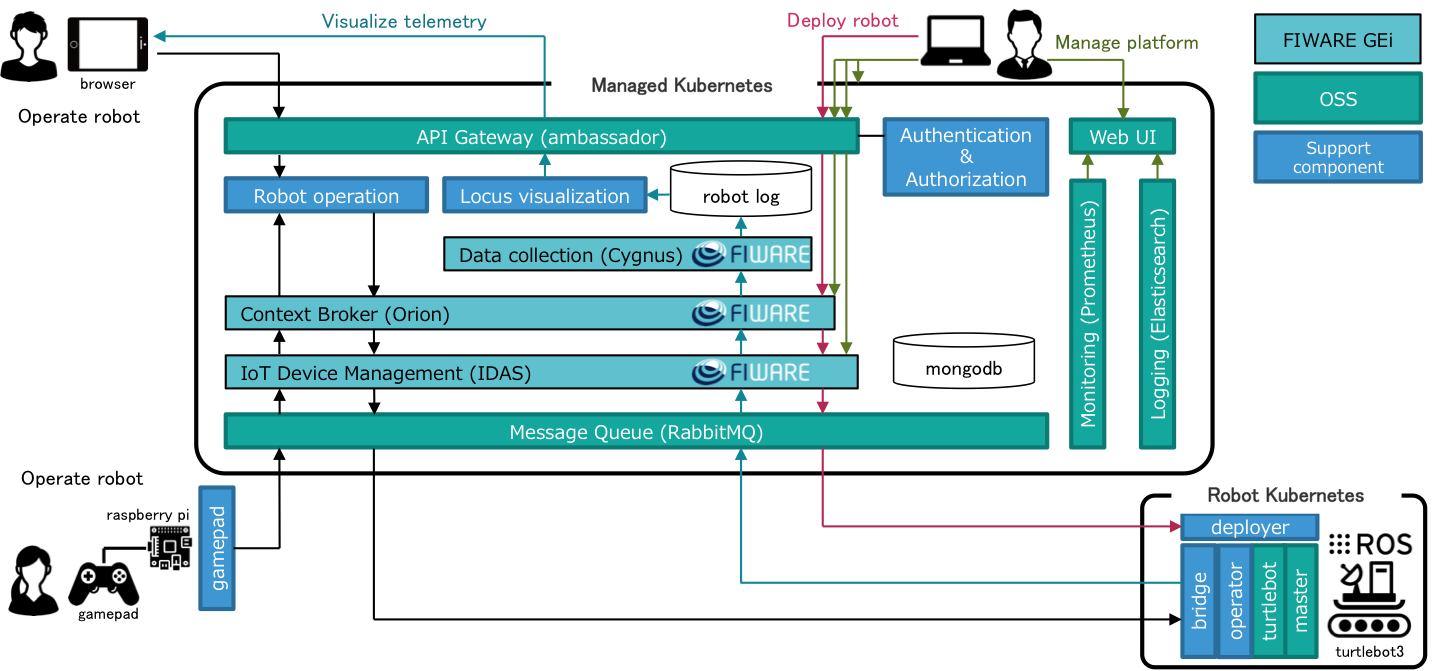
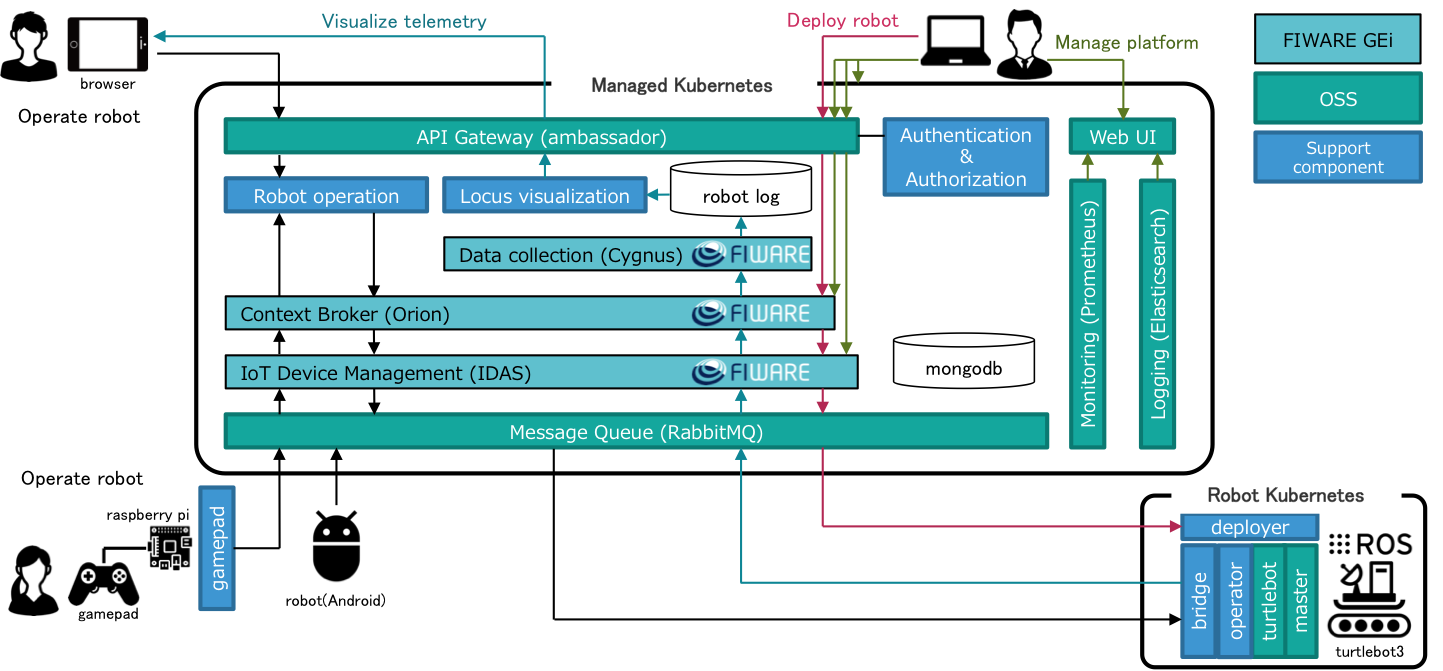
add the feature of 'fiware_xperiahello'

Changed region(s): [[0.1871, 0.7452, 0.2807, 0.924]]

diff --git a/README.md b/README.md
@@ -31,6 +31,10 @@ For example, you can deploy a ROS program to the robot and access the raw data o
 |:--|:--|
 |[gamepad](https://github.com/tech-sketch/fiware-gamepad-controller)|Gamepad Controller connecting FIWARE|
 
+|robot(Android)|summary|
+|:--|:--|
+|[robot(Android)](https://github.com/tech-sketch/fiware_xperiahello)|Android Application for [Xperia Hello!](https://www.sonymobile.co.jp/product/smartproducts/g1209/)|
+
 |turtlebot3|summary|
 |:--|:--|
 |[deployer](https://github.com/tech-sketch/mqtt-kube-operator)|MQTT client to deploy (or delete) a resource to its own Kubernetes|
@@ -146,6 +150,10 @@ For example, you can deploy a ROS program to the robot and access the raw data o
 ### gamepad controller
 * [tech-sketch/fiware-gamepad-controller](https://github.com/tech-sketch/fiware-gamepad-controller)
     * A python3.6 application in order to receive gamepad events and to send a command corresponding the event to FIWARE.
+
+### android application for Xperia Hello!
+* [tech-sketch/fiware_xperiahello](https://github.com/tech-sketch/fiware_xperiahello)
+    * An android application for Xperia Hello! It connect to FIWARE using MQTT(S).
 
 ### ROS package
 * [tech-sketch/fiware_ros_turtlebot3_bridge](https://github.com/tech-sketch/fiware_ros_turtlebot3_bridge)
